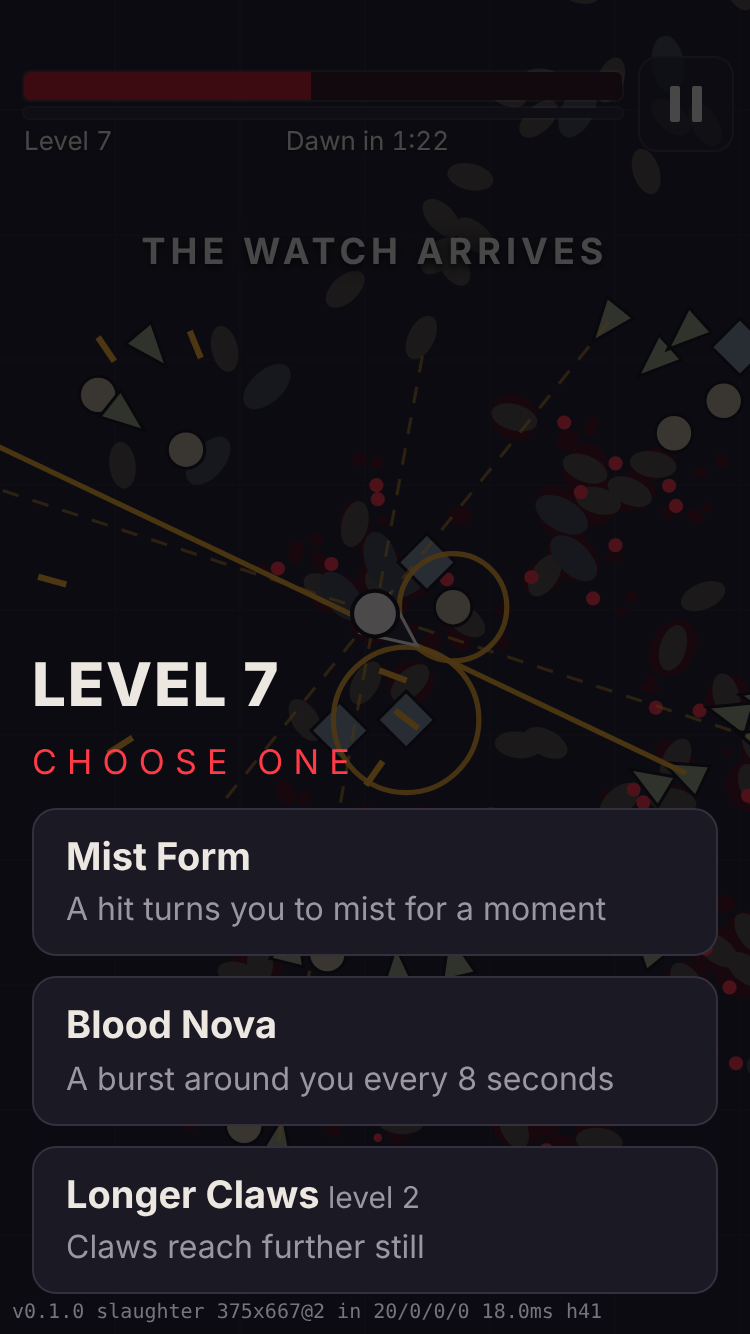
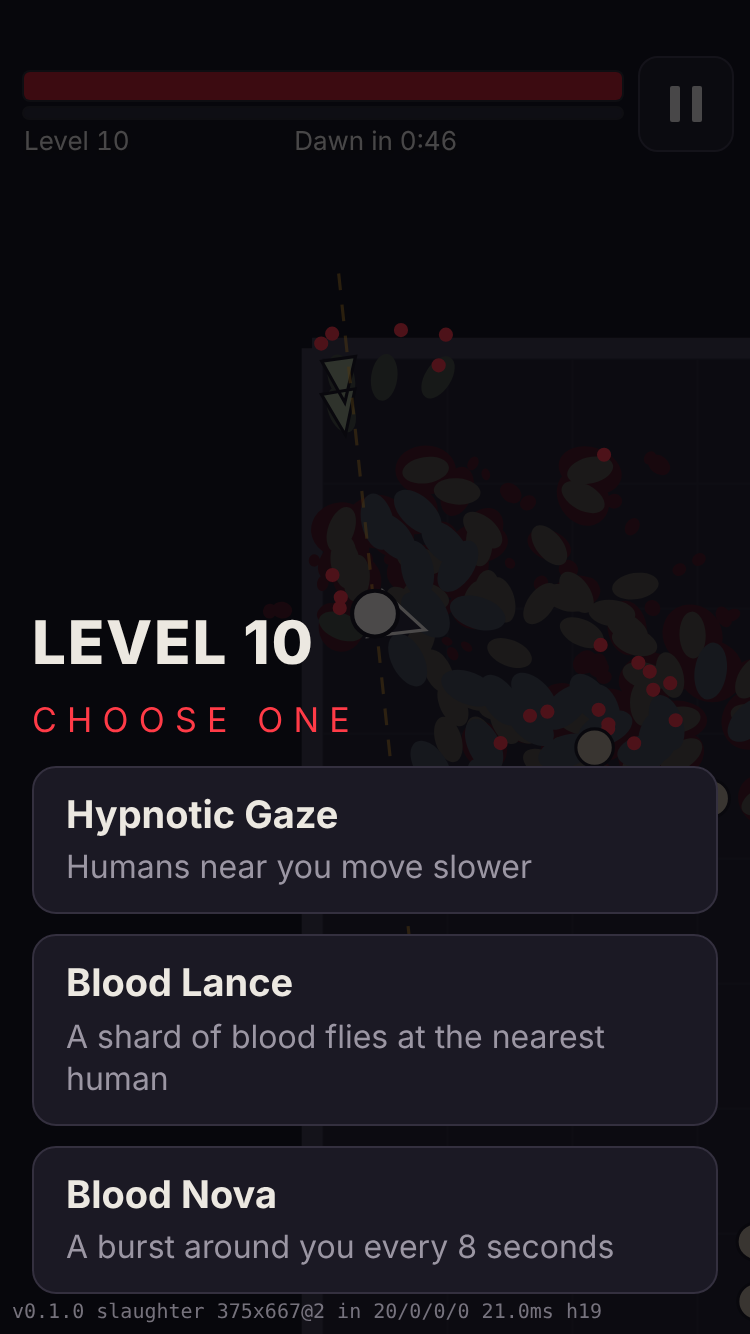
Fix what the screenshots showed; keep the embedded build one screen tall
Hide the hint and the bars behind screens, smaller hit flash, at most
seven archers at once, and count the host page's padding in the height.

Claude-Session: https://claude.ai/code/session_01C3fjST8ohCV7MjiY9F7VWq

diff --git a/dist/vampire-test.html b/dist/vampire-test.html
@@ -26,6 +26,12 @@
   color-scheme: dark;
 }
 
+/* A host page may pad the root for the notch and home bar. Counting that padding inside the
+   height keeps the game exactly one screen tall instead of spilling past the bottom. */
+html {
+  box-sizing: border-box;
+}
+
 html,
 body {
   height: 100%;
@@ -616,7 +622,9 @@ button:focus-visible {
     limits: {
       corpses: 90,
       drops: 220,
-      humans: 110
+      humans: 110,
+      archers: 7
+      // more aim lines than this cannot be read on a phone
     },
     modes: {
       slaughter: {
@@ -985,6 +993,12 @@ button:focus-visible {
   function spawnAtGate(state, type, role, gateIndex, destGate) {
     if (state.humans.length >= SETTINGS.limits.humans)
       return null;
+    if (type === "archer") {
+      let archers = 0;
+      for (let i = 0; i < state.humans.length; i++)
+        state.humans[i].type === "archer" && !state.humans[i].dead && archers++;
+      archers >= SETTINGS.limits.archers && (type = "watchman", role = "rush");
+    }
     let g = GATES[gateIndex], out = 30 + state.rng.float() * 70, along = (state.rng.float() - 0.5) * (SETTINGS.arena.gateWidth - 36), tx = -g.ny, ty = g.nx, h = makeHuman(state, type, role, g.x + g.nx * out + tx * along, g.y + g.ny * out + ty * along), inward = 40 + state.rng.float() * 70;
     return h.ai = "enter", h.tx = g.x - g.nx * inward + tx * along, h.ty = g.y - g.ny * inward + ty * along, h.gate = gateIndex, h.dest = destGate === void 0 ? -1 : destGate, state.humans.push(h), h;
   }
@@ -1732,7 +1746,7 @@ button:focus-visible {
     cards.appendChild(el("div", "spacer")), cards.appendChild(cardsTitle), cards.appendChild(cardsSub), cards.appendChild(cardsList);
     let cardsOpenAt = 0;
     function showCards(offer, level) {
-      cardsTitle.textContent = "LEVEL " + level, cardsList.textContent = "", cardsOpenAt = performance.now(), cardsList.classList.add("locked"), setTimeout(() => cardsList.classList.remove("locked"), SETTINGS.feel.cardLock * 1e3);
+      cardsTitle.textContent = "LEVEL " + level, cardsList.textContent = "", cardsOpenAt = performance.now(), hint.classList.remove("on"), hintUntil = 0, cardsList.classList.add("locked"), setTimeout(() => cardsList.classList.remove("locked"), SETTINGS.feel.cardLock * 1e3);
       for (let i = 0; i < offer.length; i++) {
         let card = offer[i], button = el("button", "btn card"), head = el("strong", "", card.name);
         card.level > 1 && head.appendChild(el("em", "", " level " + card.level)), button.appendChild(head), button.appendChild(el("span", "", card.text)), button.addEventListener("click", () => {
@@ -1768,7 +1782,7 @@ button:focus-visible {
         for (let i = 0; i < hits.length; i++)
           endHits.appendChild(el("li", "", clock(SETTINGS.run.seconds - hits[i].t) + " before dawn: " + (SOURCES[hits[i].source] || hits[i].source) + ", " + Math.round(hits[i].dmg) + " blood"));
       }
-      endStats.textContent = "", stat("Variation", SETTINGS.modes[data.mode].label), stat("Survived", clock(data.t) + " of " + clock(SETTINGS.run.seconds)), stat("Killed", String(data.kills)), data.mode === "hunt" && stat("Escaped", String(data.escapes)), stat("Level", String(data.level)), stat("Powers", data.powers || "none"), endButtons.textContent = "";
+      endStats.textContent = "", stat("Variation", SETTINGS.modes[data.mode].label), stat("Survived", clock(Math.min(data.t, SETTINGS.run.seconds)) + " of " + clock(SETTINGS.run.seconds)), stat("Killed", String(data.kills)), data.mode === "hunt" && stat("Escaped", String(data.escapes)), stat("Level", String(data.level)), stat("Powers", data.powers || "none"), endButtons.textContent = "";
       let again = el("button", "btn big", "Again");
       again.addEventListener("click", () => handlers.onStart(data.mode)), endButtons.appendChild(again);
       for (let i = 0; i < MODES.length; i++)
@@ -1782,7 +1796,7 @@ button:focus-visible {
           reportBox.hidden = !1, reportBox.focus(), reportBox.select(), copy.textContent = "Select the text below and copy it";
         };
         navigator.clipboard && navigator.clipboard.writeText ? navigator.clipboard.writeText(data.report).then(done, fallback) : fallback();
-      }), endButtons.appendChild(copy), reportBox.hidden = !0, end.hidden = !1;
+      }), endButtons.appendChild(copy), reportBox.hidden = !0, top.hidden = !0, banner.classList.remove("on"), hint.classList.remove("on"), end.hidden = !1;
     }
     function hideScreens() {
       title.hidden = !0, cards.hidden = !0, pause.hidden = !0, end.hidden = !0;
@@ -1834,6 +1848,9 @@ button:focus-visible {
       },
       showDebug() {
         debugLine.hidden = !1;
+      },
+      clearText() {
+        banner.classList.remove("on"), hint.classList.remove("on"), bannerUntil = 0, hintUntil = 0;
       }
     };
   }
@@ -2055,7 +2072,7 @@ button:focus-visible {
       ctx.fill(), ctx.stroke(), ctx.fillStyle = "#ffffff", ctx.beginPath();
       for (let i = 0; i < humans.length; i++) {
         let h = humans[i];
-        h.flash > 0 && !h.dead && !h.gone && (ctx.moveTo(h.x + h.r * 1.2, h.y), ctx.arc(h.x, h.y, h.r * 1.2, 0, TAU));
+        h.flash > 0 && !h.dead && !h.gone && (ctx.moveTo(h.x + h.r * 0.85, h.y), ctx.arc(h.x, h.y, h.r * 0.85, 0, TAU));
       }
       ctx.fill(), ctx.fillStyle = C.danger, ctx.beginPath();
       for (let i = 0; i < humans.length; i++) {
@@ -2592,7 +2609,7 @@ button:focus-visible {
         let pilot = createBot(kind || "hunter", seed), until = state.t + seconds;
         for (; !state.over && state.t < until; )
           state.offer && chooseCard(state, pilot.pick(state)), stepSim(state, pilot.act(state)), handleEvents();
-        phase = state.over ? "ending" : "play";
+        phase = state.over ? "ending" : "play", ui.clearText();
       },
       pause: setPaused
     }, params.get("debug") && ui.showDebug(), params.get("mode") && (startNight(params.get("mode"), Number(params.get("seed")) || 1), params.get("bot") && window.GAME.setBot(params.get("bot")), params.get("speed") && (speed = Number(params.get("speed"))));

diff --git a/dist/vampire-embed.html b/dist/vampire-embed.html
@@ -18,6 +18,12 @@
   color-scheme: dark;
 }
 
+/* A host page may pad the root for the notch and home bar. Counting that padding inside the
+   height keeps the game exactly one screen tall instead of spilling past the bottom. */
+html {
+  box-sizing: border-box;
+}
+
 html,
 body {
   height: 100%;
@@ -606,7 +612,9 @@ button:focus-visible {
     limits: {
       corpses: 90,
       drops: 220,
-      humans: 110
+      humans: 110,
+      archers: 7
+      // more aim lines than this cannot be read on a phone
     },
     modes: {
       slaughter: {
@@ -975,6 +983,12 @@ button:focus-visible {
   function spawnAtGate(state, type, role, gateIndex, destGate) {
     if (state.humans.length >= SETTINGS.limits.humans)
       return null;
+    if (type === "archer") {
+      let archers = 0;
+      for (let i = 0; i < state.humans.length; i++)
+        state.humans[i].type === "archer" && !state.humans[i].dead && archers++;
+      archers >= SETTINGS.limits.archers && (type = "watchman", role = "rush");
+    }
     let g = GATES[gateIndex], out = 30 + state.rng.float() * 70, along = (state.rng.float() - 0.5) * (SETTINGS.arena.gateWidth - 36), tx = -g.ny, ty = g.nx, h = makeHuman(state, type, role, g.x + g.nx * out + tx * along, g.y + g.ny * out + ty * along), inward = 40 + state.rng.float() * 70;
     return h.ai = "enter", h.tx = g.x - g.nx * inward + tx * along, h.ty = g.y - g.ny * inward + ty * along, h.gate = gateIndex, h.dest = destGate === void 0 ? -1 : destGate, state.humans.push(h), h;
   }
@@ -1722,7 +1736,7 @@ button:focus-visible {
     cards.appendChild(el("div", "spacer")), cards.appendChild(cardsTitle), cards.appendChild(cardsSub), cards.appendChild(cardsList);
     let cardsOpenAt = 0;
     function showCards(offer, level) {
-      cardsTitle.textContent = "LEVEL " + level, cardsList.textContent = "", cardsOpenAt = performance.now(), cardsList.classList.add("locked"), setTimeout(() => cardsList.classList.remove("locked"), SETTINGS.feel.cardLock * 1e3);
+      cardsTitle.textContent = "LEVEL " + level, cardsList.textContent = "", cardsOpenAt = performance.now(), hint.classList.remove("on"), hintUntil = 0, cardsList.classList.add("locked"), setTimeout(() => cardsList.classList.remove("locked"), SETTINGS.feel.cardLock * 1e3);
       for (let i = 0; i < offer.length; i++) {
         let card = offer[i], button = el("button", "btn card"), head = el("strong", "", card.name);
         card.level > 1 && head.appendChild(el("em", "", " level " + card.level)), button.appendChild(head), button.appendChild(el("span", "", card.text)), button.addEventListener("click", () => {
@@ -1758,7 +1772,7 @@ button:focus-visible {
         for (let i = 0; i < hits.length; i++)
           endHits.appendChild(el("li", "", clock(SETTINGS.run.seconds - hits[i].t) + " before dawn: " + (SOURCES[hits[i].source] || hits[i].source) + ", " + Math.round(hits[i].dmg) + " blood"));
       }
-      endStats.textContent = "", stat("Variation", SETTINGS.modes[data.mode].label), stat("Survived", clock(data.t) + " of " + clock(SETTINGS.run.seconds)), stat("Killed", String(data.kills)), data.mode === "hunt" && stat("Escaped", String(data.escapes)), stat("Level", String(data.level)), stat("Powers", data.powers || "none"), endButtons.textContent = "";
+      endStats.textContent = "", stat("Variation", SETTINGS.modes[data.mode].label), stat("Survived", clock(Math.min(data.t, SETTINGS.run.seconds)) + " of " + clock(SETTINGS.run.seconds)), stat("Killed", String(data.kills)), data.mode === "hunt" && stat("Escaped", String(data.escapes)), stat("Level", String(data.level)), stat("Powers", data.powers || "none"), endButtons.textContent = "";
       let again = el("button", "btn big", "Again");
       again.addEventListener("click", () => handlers.onStart(data.mode)), endButtons.appendChild(again);
       for (let i = 0; i < MODES.length; i++)
@@ -1772,7 +1786,7 @@ button:focus-visible {
           reportBox.hidden = !1, reportBox.focus(), reportBox.select(), copy.textContent = "Select the text below and copy it";
         };
         navigator.clipboard && navigator.clipboard.writeText ? navigator.clipboard.writeText(data.report).then(done, fallback) : fallback();
-      }), endButtons.appendChild(copy), reportBox.hidden = !0, end.hidden = !1;
+      }), endButtons.appendChild(copy), reportBox.hidden = !0, top.hidden = !0, banner.classList.remove("on"), hint.classList.remove("on"), end.hidden = !1;
     }
     function hideScreens() {
       title.hidden = !0, cards.hidden = !0, pause.hidden = !0, end.hidden = !0;
@@ -1824,6 +1838,9 @@ button:focus-visible {
       },
       showDebug() {
         debugLine.hidden = !1;
+      },
+      clearText() {
+        banner.classList.remove("on"), hint.classList.remove("on"), bannerUntil = 0, hintUntil = 0;
       }
     };
   }
@@ -2045,7 +2062,7 @@ button:focus-visible {
       ctx.fill(), ctx.stroke(), ctx.fillStyle = "#ffffff", ctx.beginPath();
       for (let i = 0; i < humans.length; i++) {
         let h = humans[i];
-        h.flash > 0 && !h.dead && !h.gone && (ctx.moveTo(h.x + h.r * 1.2, h.y), ctx.arc(h.x, h.y, h.r * 1.2, 0, TAU));
+        h.flash > 0 && !h.dead && !h.gone && (ctx.moveTo(h.x + h.r * 0.85, h.y), ctx.arc(h.x, h.y, h.r * 0.85, 0, TAU));
       }
       ctx.fill(), ctx.fillStyle = C.danger, ctx.beginPath();
       for (let i = 0; i < humans.length; i++) {

diff --git a/dist/vampire.html b/dist/vampire.html
@@ -26,6 +26,12 @@
   color-scheme: dark;
 }
 
+/* A host page may pad the root for the notch and home bar. Counting that padding inside the
+   height keeps the game exactly one screen tall instead of spilling past the bottom. */
+html {
+  box-sizing: border-box;
+}
+
 html,
 body {
   height: 100%;
@@ -616,7 +622,9 @@ button:focus-visible {
     limits: {
       corpses: 90,
       drops: 220,
-      humans: 110
+      humans: 110,
+      archers: 7
+      // more aim lines than this cannot be read on a phone
     },
     modes: {
       slaughter: {
@@ -985,6 +993,12 @@ button:focus-visible {
   function spawnAtGate(state, type, role, gateIndex, destGate) {
     if (state.humans.length >= SETTINGS.limits.humans)
       return null;
+    if (type === "archer") {
+      let archers = 0;
+      for (let i = 0; i < state.humans.length; i++)
+        state.humans[i].type === "archer" && !state.humans[i].dead && archers++;
+      archers >= SETTINGS.limits.archers && (type = "watchman", role = "rush");
+    }
     let g = GATES[gateIndex], out = 30 + state.rng.float() * 70, along = (state.rng.float() - 0.5) * (SETTINGS.arena.gateWidth - 36), tx = -g.ny, ty = g.nx, h = makeHuman(state, type, role, g.x + g.nx * out + tx * along, g.y + g.ny * out + ty * along), inward = 40 + state.rng.float() * 70;
     return h.ai = "enter", h.tx = g.x - g.nx * inward + tx * along, h.ty = g.y - g.ny * inward + ty * along, h.gate = gateIndex, h.dest = destGate === void 0 ? -1 : destGate, state.humans.push(h), h;
   }
@@ -1732,7 +1746,7 @@ button:focus-visible {
     cards.appendChild(el("div", "spacer")), cards.appendChild(cardsTitle), cards.appendChild(cardsSub), cards.appendChild(cardsList);
     let cardsOpenAt = 0;
     function showCards(offer, level) {
-      cardsTitle.textContent = "LEVEL " + level, cardsList.textContent = "", cardsOpenAt = performance.now(), cardsList.classList.add("locked"), setTimeout(() => cardsList.classList.remove("locked"), SETTINGS.feel.cardLock * 1e3);
+      cardsTitle.textContent = "LEVEL " + level, cardsList.textContent = "", cardsOpenAt = performance.now(), hint.classList.remove("on"), hintUntil = 0, cardsList.classList.add("locked"), setTimeout(() => cardsList.classList.remove("locked"), SETTINGS.feel.cardLock * 1e3);
       for (let i = 0; i < offer.length; i++) {
         let card = offer[i], button = el("button", "btn card"), head = el("strong", "", card.name);
         card.level > 1 && head.appendChild(el("em", "", " level " + card.level)), button.appendChild(head), button.appendChild(el("span", "", card.text)), button.addEventListener("click", () => {
@@ -1768,7 +1782,7 @@ button:focus-visible {
         for (let i = 0; i < hits.length; i++)
           endHits.appendChild(el("li", "", clock(SETTINGS.run.seconds - hits[i].t) + " before dawn: " + (SOURCES[hits[i].source] || hits[i].source) + ", " + Math.round(hits[i].dmg) + " blood"));
       }
-      endStats.textContent = "", stat("Variation", SETTINGS.modes[data.mode].label), stat("Survived", clock(data.t) + " of " + clock(SETTINGS.run.seconds)), stat("Killed", String(data.kills)), data.mode === "hunt" && stat("Escaped", String(data.escapes)), stat("Level", String(data.level)), stat("Powers", data.powers || "none"), endButtons.textContent = "";
+      endStats.textContent = "", stat("Variation", SETTINGS.modes[data.mode].label), stat("Survived", clock(Math.min(data.t, SETTINGS.run.seconds)) + " of " + clock(SETTINGS.run.seconds)), stat("Killed", String(data.kills)), data.mode === "hunt" && stat("Escaped", String(data.escapes)), stat("Level", String(data.level)), stat("Powers", data.powers || "none"), endButtons.textContent = "";
       let again = el("button", "btn big", "Again");
       again.addEventListener("click", () => handlers.onStart(data.mode)), endButtons.appendChild(again);
       for (let i = 0; i < MODES.length; i++)
@@ -1782,7 +1796,7 @@ button:focus-visible {
           reportBox.hidden = !1, reportBox.focus(), reportBox.select(), copy.textContent = "Select the text below and copy it";
         };
         navigator.clipboard && navigator.clipboard.writeText ? navigator.clipboard.writeText(data.report).then(done, fallback) : fallback();
-      }), endButtons.appendChild(copy), reportBox.hidden = !0, end.hidden = !1;
+      }), endButtons.appendChild(copy), reportBox.hidden = !0, top.hidden = !0, banner.classList.remove("on"), hint.classList.remove("on"), end.hidden = !1;
     }
     function hideScreens() {
       title.hidden = !0, cards.hidden = !0, pause.hidden = !0, end.hidden = !0;
@@ -1834,6 +1848,9 @@ button:focus-visible {
       },
       showDebug() {
         debugLine.hidden = !1;
+      },
+      clearText() {
+        banner.classList.remove("on"), hint.classList.remove("on"), bannerUntil = 0, hintUntil = 0;
       }
     };
   }
@@ -2055,7 +2072,7 @@ button:focus-visible {
       ctx.fill(), ctx.stroke(), ctx.fillStyle = "#ffffff", ctx.beginPath();
       for (let i = 0; i < humans.length; i++) {
         let h = humans[i];
-        h.flash > 0 && !h.dead && !h.gone && (ctx.moveTo(h.x + h.r * 1.2, h.y), ctx.arc(h.x, h.y, h.r * 1.2, 0, TAU));
+        h.flash > 0 && !h.dead && !h.gone && (ctx.moveTo(h.x + h.r * 0.85, h.y), ctx.arc(h.x, h.y, h.r * 0.85, 0, TAU));
       }
       ctx.fill(), ctx.fillStyle = C.danger, ctx.beginPath();
       for (let i = 0; i < humans.length; i++) {

diff --git a/src/app/ui.js b/src/app/ui.js
@@ -140,6 +140,8 @@ export function createUi(app, handlers, version) {
     cardsTitle.textContent = "LEVEL " + level;
     cardsList.textContent = "";
     cardsOpenAt = performance.now();
+    hint.classList.remove("on");
+    hintUntil = 0;
     cardsList.classList.add("locked");
     setTimeout(() => cardsList.classList.remove("locked"), S.feel.cardLock * 1000);
     for (let i = 0; i < offer.length; i++) {
@@ -231,7 +233,7 @@ export function createUi(app, handlers, version) {
     }
     endStats.textContent = "";
     stat("Variation", S.modes[data.mode].label);
-    stat("Survived", clock(data.t) + " of " + clock(S.run.seconds));
+    stat("Survived", clock(Math.min(data.t, S.run.seconds)) + " of " + clock(S.run.seconds));
     stat("Killed", String(data.kills));
     if (data.mode === "hunt") {
       stat("Escaped", String(data.escapes));
@@ -267,6 +269,9 @@ export function createUi(app, handlers, version) {
     });
     endButtons.appendChild(copy);
     reportBox.hidden = true;
+    top.hidden = true;
+    banner.classList.remove("on");
+    hint.classList.remove("on");
     end.hidden = false;
   }
 
@@ -381,6 +386,12 @@ export function createUi(app, handlers, version) {
     },
     showDebug() {
       debugLine.hidden = false;
+    },
+    clearText() {
+      banner.classList.remove("on");
+      hint.classList.remove("on");
+      bannerUntil = 0;
+      hintUntil = 0;
     },
   };
 }

diff --git a/src/core/humans.js b/src/core/humans.js
@@ -64,6 +64,18 @@ export function spawnAtGate(state, type, role, gateIndex, destGate) {
   if (state.humans.length >= S.limits.humans) {
     return null;
   }
+  if (type === "archer") {
+    let archers = 0;
+    for (let i = 0; i < state.humans.length; i++) {
+      if (state.humans[i].type === "archer" && !state.humans[i].dead) {
+        archers++;
+      }
+    }
+    if (archers >= S.limits.archers) {
+      type = "watchman";
+      role = "rush";
+    }
+  }
   const g = GATES[gateIndex];
   const out = 30 + state.rng.float() * 70;
   const along = (state.rng.float() - 0.5) * (S.arena.gateWidth - 36);

diff --git a/src/render/renderer.js b/src/render/renderer.js
@@ -412,8 +412,9 @@ export function createRenderer(canvas, screen) {
     for (let i = 0; i < humans.length; i++) {
       const h = humans[i];
       if (h.flash > 0 && !h.dead && !h.gone) {
-        ctx.moveTo(h.x + h.r * 1.2, h.y);
-        ctx.arc(h.x, h.y, h.r * 1.2, 0, TAU);
+        // Kept smaller than the vampire, so a flash is never mistaken for it.
+        ctx.moveTo(h.x + h.r * 0.85, h.y);
+        ctx.arc(h.x, h.y, h.r * 0.85, 0, TAU);
       }
     }
     ctx.fill();

diff --git a/src/style.css b/src/style.css
@@ -16,6 +16,12 @@
   color-scheme: dark;
 }
 
+/* A host page may pad the root for the notch and home bar. Counting that padding inside the
+   height keeps the game exactly one screen tall instead of spilling past the bottom. */
+html {
+  box-sizing: border-box;
+}
+
 html,
 body {
   height: 100%;

diff --git a/src/app/main.js b/src/app/main.js
@@ -347,6 +347,7 @@ function boot() {
           handleEvents();
         }
         phase = state.over ? "ending" : "play";
+        ui.clearText();
       },
       pause: setPaused,
     };

diff --git a/src/core/settings.js b/src/core/settings.js
@@ -132,6 +132,7 @@ export const SETTINGS = {
     corpses: 90,
     drops: 220,
     humans: 110,
+    archers: 7, // more aim lines than this cannot be read on a phone
   },
 
   modes: {

diff --git a/reports/lab-latest.md b/reports/lab-latest.md
@@ -4,12 +4,12 @@
 
 | variation | bot | wins % | survived s | first kill s | first card s | level | kills | escapes | time under 30% blood | most common death | unfair hits |
 |---|---|---|---|---|---|---|---|---|---|---|---|
-| slaughter | idle | 0 | 20 | 0.8 | 15.4 | 2 | 22 | 0 | 23% | peasant 90% | 0 |
-| slaughter | novice | 0 | 64 | 1.1 | 23.5 | 5 | 114 | 0 | 11% | archer 45% | 0 |
-| slaughter | hunter | 45 | 176 | 0.5 | 8.8 | 11 | 541 | 0 | 3% | archer 55% | 0 |
-| feed | idle | 0 | 7 | 0.0 | 0.0 | 1 | 0 | 0 | 33% | peasant 100% | 0 |
-| feed | novice | 0 | 28 | 1.1 | 14.3 | 1 | 21 | 0 | 15% | peasant 75% | 0 |
-| feed | hunter | 40 | 164 | 0.5 | 9.5 | 10 | 464 | 0 | 3% | archer 58% | 0 |
-| hunt | idle | 0 | 33 | 27.4 | 0.0 | 1 | 0 | 4 | 32% | watchman 55% | 0 |
-| hunt | novice | 0 | 30 | 14.2 | 27.7 | 1 | 4 | 8 | 17% | watchman 90% | 0 |
-| hunt | hunter | 60 | 180 | 1.9 | 11.4 | 12 | 362 | 67 | 2% | watchman 75% | 0 |
+| slaughter | idle | 0 | 29 | 0.8 | 14.5 | 2 | 39 | 0 | 21% | peasant 75% | 0 |
+| slaughter | novice | 0 | 68 | 1.1 | 22.9 | 5 | 131 | 0 | 5% | watchman 50% | 0 |
+| slaughter | hunter | 90 | 180 | 0.5 | 7.1 | 12 | 606 | 0 | 0% | watchman 50% | 0 |
+| feed | idle | 0 | 8 | 0.0 | 0.0 | 1 | 0 | 0 | 37% | peasant 100% | 0 |
+| feed | novice | 0 | 30 | 1.1 | 14.3 | 1 | 22 | 0 | 15% | peasant 65% | 0 |
+| feed | hunter | 90 | 180 | 0.5 | 7.9 | 13 | 605 | 0 | 0% | peasant 50% | 0 |
+| hunt | idle | 0 | 30 | 24.7 | 0.0 | 1 | 0 | 4 | 23% | watchman 80% | 0 |
+| hunt | novice | 0 | 32 | 11.6 | 25.4 | 2 | 5 | 10 | 22% | watchman 70% | 0 |
+| hunt | hunter | 100 | 180 | 1.9 | 3.3 | 12 | 382 | 73 | 0% | - | 0 |
